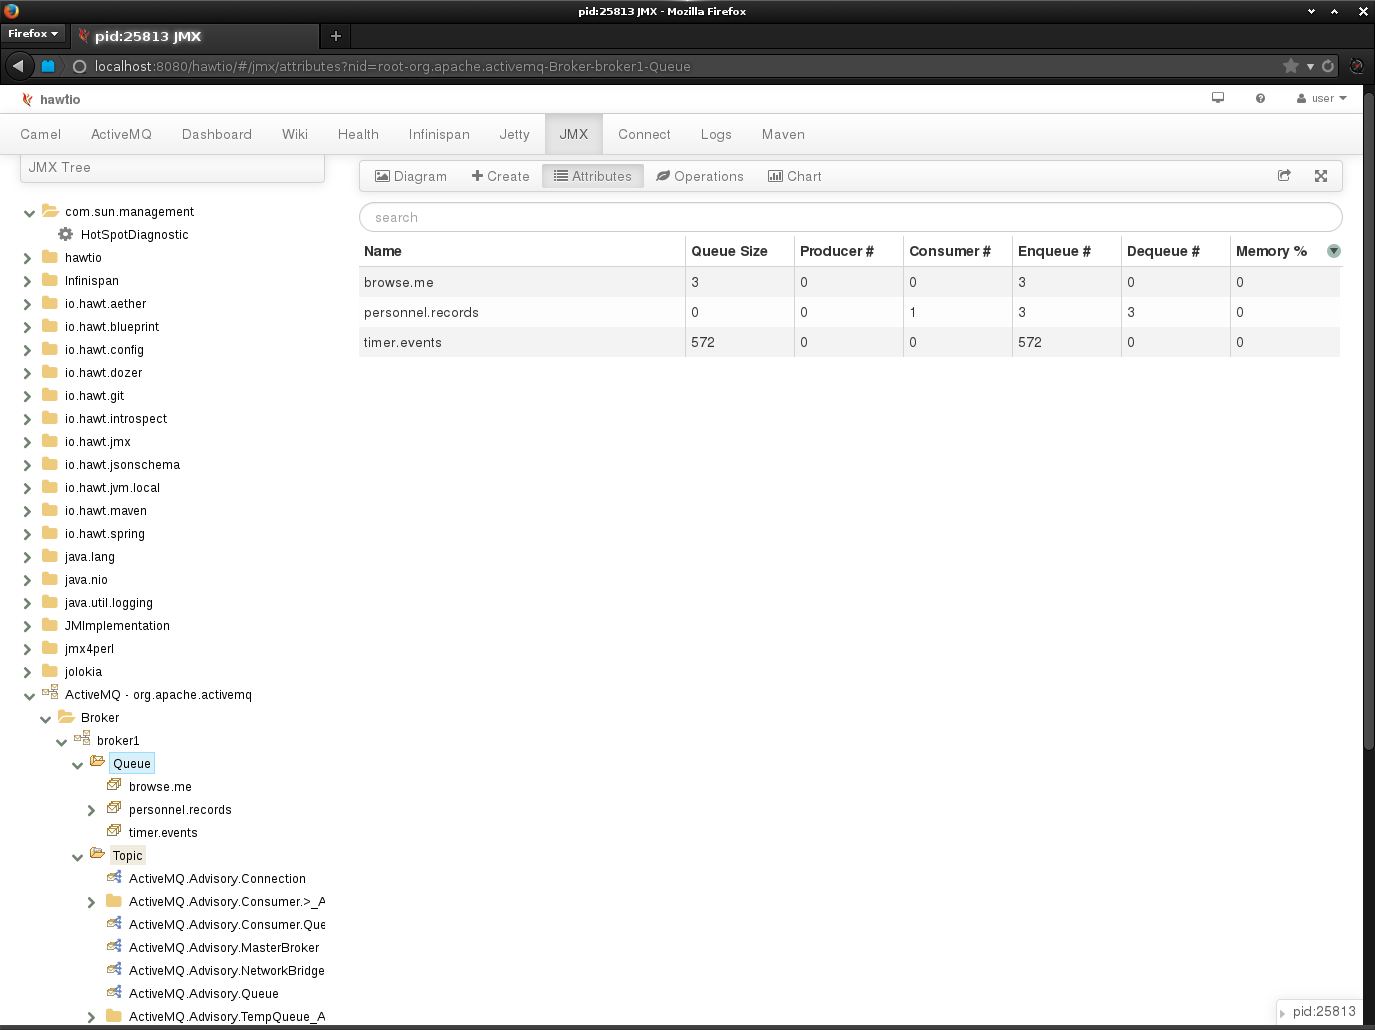
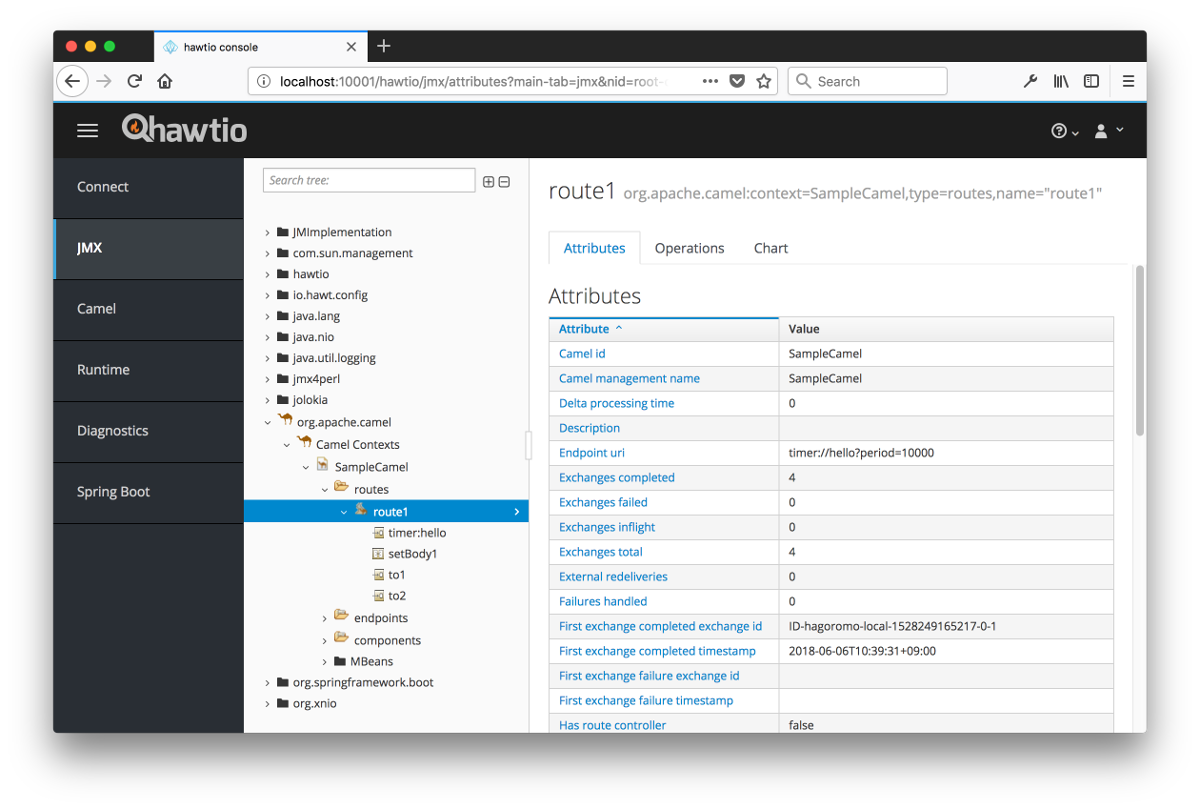
#11: update screenshots in carousel
Fix #11

diff --git a/src/pages/index.js b/src/pages/index.js
@@ -13,7 +13,9 @@ import {
 import { Timeline } from 'react-twitter-widgets'
 
 import { withPrefix } from 'gatsby-link'
-import screenshot from '../../static/images/screenshots/jmx.png'
+import screenshotJmx from '../../static/images/screenshots/jmx.png'
+import screenshotCamel from '../../static/images/screenshots/camel-route.png'
+import screenshotSpringBoot from '../../static/images/screenshots/spring-boot.png'
 import logo from '../../static/images/hawtio_logo.svg'
 
 const IndexPage = ({ data }) => {
@@ -25,7 +27,7 @@ const IndexPage = ({ data }) => {
       }}>
         <Grid>
           <Row>
-            <Col xs={12} sm={12} md={6}>
+            <Col xs={12} sm={12} md={5}>
               <img src={logo} style={{ height: 100, margin: 0 }} />
               <h2 style={{ color: 'lightgrey', borderBottom: 0 }}>{description}</h2>
               <div style={{ marginTop: '4rem', marginBottom: '1rem' }}>
@@ -33,22 +35,22 @@ const IndexPage = ({ data }) => {
                 <Button bsStyle="primary" href={withPrefix('/docs/get-started/')}>Get Started Now</Button>
               </div>
             </Col>
-            <Col xsHidden smHidden md={6}>
-              <Carousel interval={10000} indicators={false} controls={false} style={{ marginLeft: 50 }}>
+            <Col xsHidden smHidden md={7}>
+              <Carousel interval={5000} indicators={false} controls={false}>
                 <Carousel.Item>
-                  <img alt="JMX MBeans" src={screenshot} />
+                  <img alt="JMX MBeans" src={screenshotJmx} />
                   <Carousel.Caption>
                     <h3 style={{ color: 'black' }}>JMX MBeans</h3>
                   </Carousel.Caption>
                 </Carousel.Item>
                 <Carousel.Item>
-                  <img alt="Camel Routes" src={screenshot} />
+                  <img alt="Camel Routes" src={screenshotCamel} />
                   <Carousel.Caption>
                     <h3 style={{ color: 'black' }}>Camel Routes</h3>
                   </Carousel.Caption>
                 </Carousel.Item>
                 <Carousel.Item>
-                  <img alt="Spring Boot" src={screenshot} />
+                  <img alt="Spring Boot" src={screenshotSpringBoot} />
                   <Carousel.Caption>
                     <h3 style={{ color: 'black' }}>Spring Boot</h3>
                   </Carousel.Caption>
